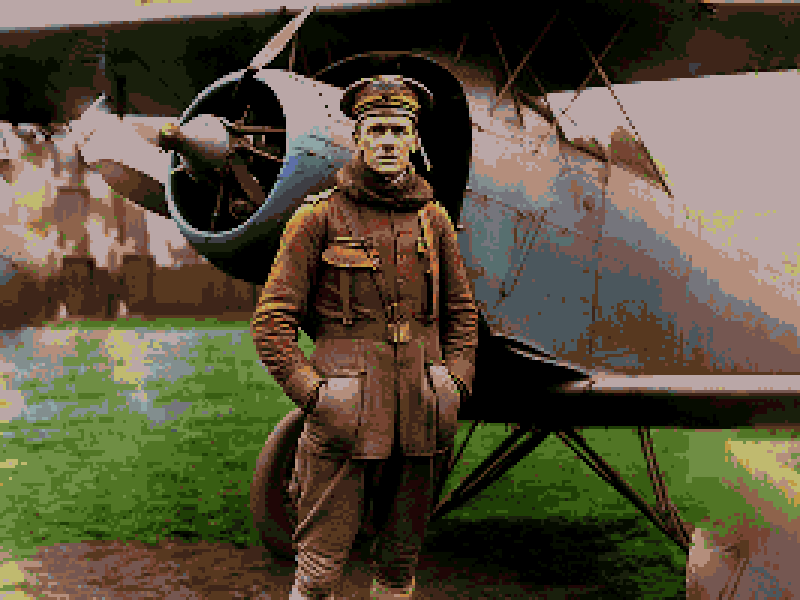
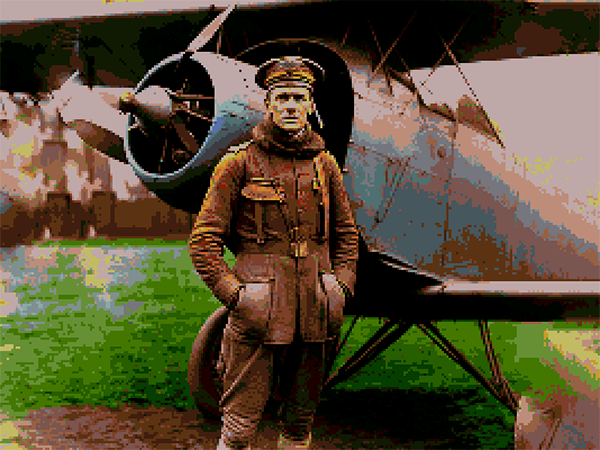
ajout d'image + début d'implémentation des images et des textes

diff --git a/GameEngine.java b/GameEngine.java
@@ -31,19 +31,19 @@ public class GameEngine
      */
     private void createRooms()
     {
-        Room vDodo0 = new Room("vDodo0", "img/dodo-soldat.png");
-        Room vT1 = new Room("vT1", "img/unknow.png");
-        Room vT2 = new Room("vT2", "img/unknow.png");
-        Room vT3 = new Room("vT3", "img/unknow.png");
+        Room vDodo0 = new Room("C'est ta chambre, c'est un peu petit et tu dois la partager avec 7 autre soldats.", "img/dodo-soldat.png");
+        Room vT1 = new Room("Tu vois la lumière du jour, le soleil t'aveugle et la boue te glace les pieds. Tu dois suivre ton compagnon.", "img/debut.png");
+        Room vT2 = new Room("vT2", "img/tranche3.png");
+        Room vT3 = new Room("vT3", "img/T3.png");
         Room vT4 = new Room("vT4", "img/unknow.png");
-        Room vCDS1 = new Room("vCDS1", "img/unknow.png");
+        Room vCDS1 = new Room("Tu ne peux pas aller plus loin au risque de deserter.", "img/tranche4.png");
         Room vCDS2 = new Room("vCDS2", "img/unknow.png");
         Room vCDS3 = new Room("vCDS3", "img/unknow.png");
         Room vCDS4 = new Room("vCDS4", "img/unknow.png");
         Room vCDS5 = new Room("vCDS5", "img/unknow.png");
         Room vCDS6 = new Room("vCDS6", "img/unknow.png");
         Room vCDS7 = new Room("vCDS7", "img/unknow.png");
-        Room vQG = new Room("vQG", "img/unknow.png");
+        Room vQG = new Room("vQG", "img/reu.png");
         Room vT5 = new Room("vT5", "img/unknow.png");
         Room vT6 = new Room("vT6", "img/unknow.png");
         Room vT7 = new Room("vT7", "img/unknow.png");
@@ -51,9 +51,9 @@ public class GameEngine
         Room vT9 = new Room("vT9", "img/unknow.png");
         Room vT10 = new Room("vT10", "img/unknow.png");
         Room vT11 = new Room("vT11", "img/unknow.png");
-        Room vDepartAvion = new Room("vDepartAvion", "img/unknow.png");
-        Room vArriveAvion = new Room("vArriveAvion", "img/unknow.png");
-        Room vInterrieurAvion = new Room("vInterrieurAvion", "img/unknow.png");
+        Room vDepartAvion = new Room("vDepartAvion", "img/avion-depart.png");
+        Room vArriveAvion = new Room("vArriveAvion", "img/avion-arrive.png");
+        Room vInterrieurAvion = new Room("vInterrieurAvion", "img/avion-vole.png");
         Room vImpossible1 = new Room("vImpossible1", "img/unknow.png");
         Room vGauche = new Room("vGauche", "img/unknow.png");
         Room vDroite = new Room("vDroite", "img/unknow.png");
@@ -155,10 +155,9 @@ public class GameEngine
      */
     private void printHelp() // doit être privé
     {
-        System.out.println("You are lost. You are alone.");
-        System.out.println("You wander around at the university.");
-        System.out.println(" ");
-        System.out.println("Vos commandes sont : "+this.aParser.getCommandString());
+        this.aGui.println("Tu es un soldat, on est en 1915. Tu dois transmettre un message avant qu'il ne soit trop tard");
+        this.aGui.println(" ");
+        this.aGui.println("Vos commandes sont : "+this.aParser.getCommandString());
     }//printHelp
         
     /**
@@ -169,7 +168,7 @@ public class GameEngine
     {
         if (!pCommand.hasSecondWord())
         {
-            System.out.println("Aller où ?");
+            this.aGui.println("Aller où ?");
             return;
         }//if
         
@@ -197,7 +196,7 @@ public class GameEngine
      */
     private void look()
     {
-        System.out.println(this.aCurrentRoom.getLongDescription());
+        this.aGui.println(this.aCurrentRoom.getLongDescription());
     }
     
     /**
@@ -205,7 +204,7 @@ public class GameEngine
      */
     private void eat()
     {
-        System.out.println("Tu viens de manger tu n'as pas faim");
+        this.aGui.println("Tu viens de manger tu n'as pas faim");
     }
     
     private void endGame()

diff --git a/UserInterface.java b/UserInterface.java
@@ -68,6 +68,7 @@ public class UserInterface implements ActionListener
     {
         String vImagePath = "" + pImageName; // to change the directory
         URL vImageURL = this.getClass().getClassLoader().getResource( vImagePath );
+        
         if ( vImageURL == null )
             System.out.println( "Image not found : " + vImagePath );
         else {
@@ -101,6 +102,8 @@ public class UserInterface implements ActionListener
         this.aMyFrame = new JFrame( "Mon jeu" ); // change the title !
         this.aEntryField = new JTextField( 34 ); //34
         
+        Dimension tailleEcran = java.awt.Toolkit.getDefaultToolkit().getScreenSize();
+        
         this.aLog = new JTextArea();
         this.aLog.setEditable( false );
         JScrollPane vListScroller = new JScrollPane( this.aLog );
@@ -109,6 +112,7 @@ public class UserInterface implements ActionListener
         this.aImage = new JLabel();
 
         JPanel vPanel = new JPanel();
+        
         vPanel.setLayout( new BorderLayout() ); // ==> only five places
         vPanel.add( this.aImage, BorderLayout.NORTH );
         vPanel.add( vListScroller, BorderLayout.CENTER );
